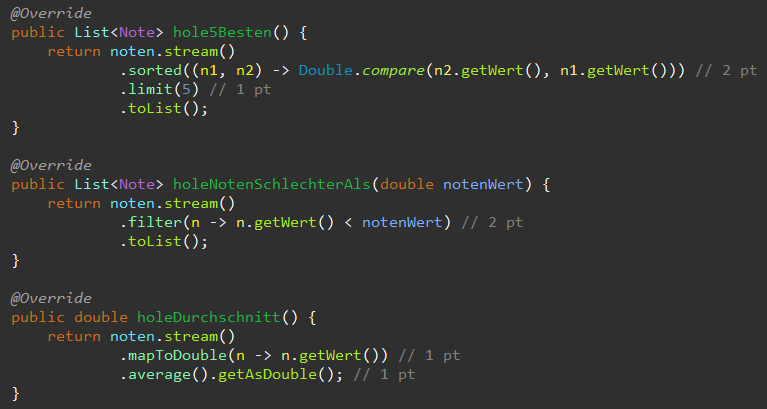
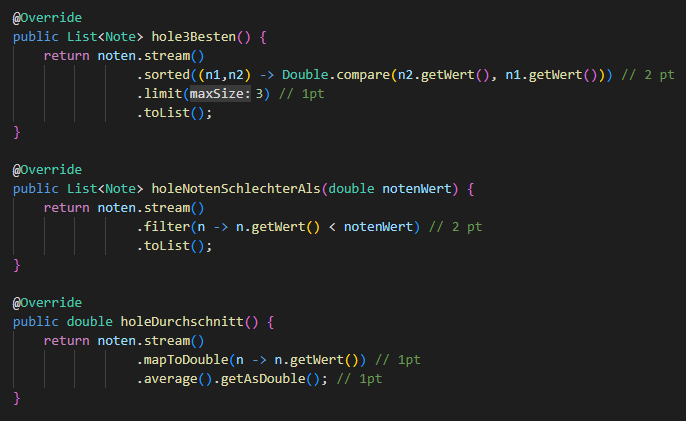
added exam solution code to assets, made new screenshots for new exam variation, adapted examn question

diff --git a/sidequests/2b_UnitTests/LB/assets/NotenServiceTest.java b/sidequests/2b_UnitTests/LB/assets/NotenServiceTest.java
@@ -1,0 +1,52 @@
+package wiss.m323;
+
+import static org.junit.Assert.fail;
+
+import java.util.List;
+import java.util.stream.Stream;
+
+import org.junit.jupiter.api.BeforeEach;
+import org.junit.jupiter.api.Test;
+
+public class NotenServiceTest {
+
+	INotenService service;
+
+	@BeforeEach
+	public void setup() {
+
+        List<Note> noten = Stream.of(new Note("M117", 6),   new Note("M122", 2.5), new Note("M162", 3),
+			                         new Note("M164", 5.5), new Note("M187", 4),   new Note("M231", 4.5)).toList();
+
+		service = new NotenService(noten);
+	}
+
+	@Test
+	public void whenHole3Besten_returns3Besten() {
+		List<Note> result = service.hole3Besten();
+
+		assertNotNull(result); // 1 pt falls min. eine der beiden vorhanden
+		assertEquals(3, result.size()); // 1 pt falls min. eine der beiden vorhanden
+
+		// 2 pt falls alle vorhanden
+		assertEquals(6, result.get(0).getWert());
+		assertEquals(5.5, result.get(1).getWert());
+		assertEquals(4.5, result.get(2).getWert());
+	}
+
+	@Test
+	public void givenNotenwert4_whenholeNotenSchlechterAls_returns2Noten() {
+		List<Note> result = service.holeNotenSchlechterAls(4);
+
+		assertNotNull(result); // 1 pt
+		assertEquals(2, result.size()); // 1 pt
+	}
+
+	@Test
+	public void whenHoleDurchschnitt_returnsAverage() {
+		double expectedValue = 25.5 / 6; // oder 4.25 oder direkt im Assert = 1 pt
+		double actualValue = service.holeDurchschnitt();
+
+		assertEquals(expectedValue, actualValue); // 1 pt
+	}
+}

diff --git a/sidequests/2b_UnitTests/LB/assets/NotenService.java b/sidequests/2b_UnitTests/LB/assets/NotenService.java
@@ -1,0 +1,54 @@
+package wiss.m323;
+
+import java.util.List;
+
+/**
+ * Effektive Implementation des Notenservice.
+ * 
+ * @author Patrick Meier
+ *
+ */
+public class NotenService implements INotenService {
+
+	private List<Note> noten;
+
+	/**
+	 * Initialisiert den Service mit einer vorgegebenen Liste von Noten.
+	 * 
+	 * @param noten Liste der Noten, die der Service verwenden wird.
+	 */
+	public NotenService(List<Note> noten) {
+		this.noten = noten;
+	}
+
+	/**
+	 * Gibt alle im service befindlichen Noten zurueck;
+	 * 
+	 * @return Liste aller Noten
+	 */
+	public List<Note> holeAlle() {
+		return noten;
+	}
+
+	@Override
+	public List<Note> hole3Besten() {
+		return noten.stream()
+					.sorted((n1,n2) -> Double.compare(n2.getWert(), n1.getWert())) // 2 pt
+					.limit(3) // 1pt
+					.toList();
+	}
+
+	@Override
+	public List<Note> holeNotenSchlechterAls(double notenWert) {
+		return noten.stream()
+					.filter(n -> n.getWert() < notenWert) // 2 pt
+					.toList();
+	}
+
+	@Override
+	public double holeDurchschnitt() {
+		return noten.stream()
+					.mapToDouble(n -> n.getWert()) // 1pt
+					.average().getAsDouble(); // 1pt
+	}
+}

diff --git a/sidequests/2b_UnitTests/LB/sq2b_lb/src/test/java/wiss/m323/NotenServiceTest.java b/sidequests/2b_UnitTests/LB/sq2b_lb/src/test/java/wiss/m323/NotenServiceTest.java
@@ -27,7 +27,7 @@ public class NotenServiceTest {
 	}
 
 	@Test
-	public void givenNotenwert4_whenholeNotenSchlechterAls_returns9Noten() {
+	public void givenNotenwert4_whenHoleNotenSchlechterAls_returns2Noten() {
 		fail("Not implemented yet");
 	}
 

diff --git a/sidequests/2b_UnitTests/LB/aufgabe.md b/sidequests/2b_UnitTests/LB/aufgabe.md
@@ -1,4 +1,4 @@
-# SQ1A - Titel
+# SQ2B - Unit Tests
 
 ## Zeit - 15 Minuten
 
@@ -10,7 +10,7 @@
 
 Es soll ein NotenService implementiert werden welcher folgende 3 Anwendungsfälle abdeckt:
 
-* die 5 Besten Noten zurückgeben
+* die 3 Besten Noten zurückgeben
 * alle Noten schlechter als einen gewissen Wert zurückgeben
 * Durchschnitt aller Noten zurückgeben
 
@@ -27,8 +27,8 @@ Du musst lediglich Unit Tests schreiben und die Funktionalität implementieren.
 
 ||Punkte|
 |--:|---|
-|`hole5Besten`-Methode ist korrekt implementiert| 3 Punkte|
-|Unit Test für `hole5Besten` ist sinnvoll implementiert|2 Punkte|
+|`hole3Besten`-Methode ist korrekt implementiert| 3 Punkte|
+|Unit Test für `hole3Besten` ist sinnvoll implementiert|3 Punkte|
 |`holeNotenSchlechterAls` ist korrekt implementiert| 2 Punkte|
 |Unit Test für `holeNotenSchlechterAls` ist sinnvoll implementiert|2 Punkte|
 |`holeDurchschnitt` ist korrekt implementiert|2 Punkte|
